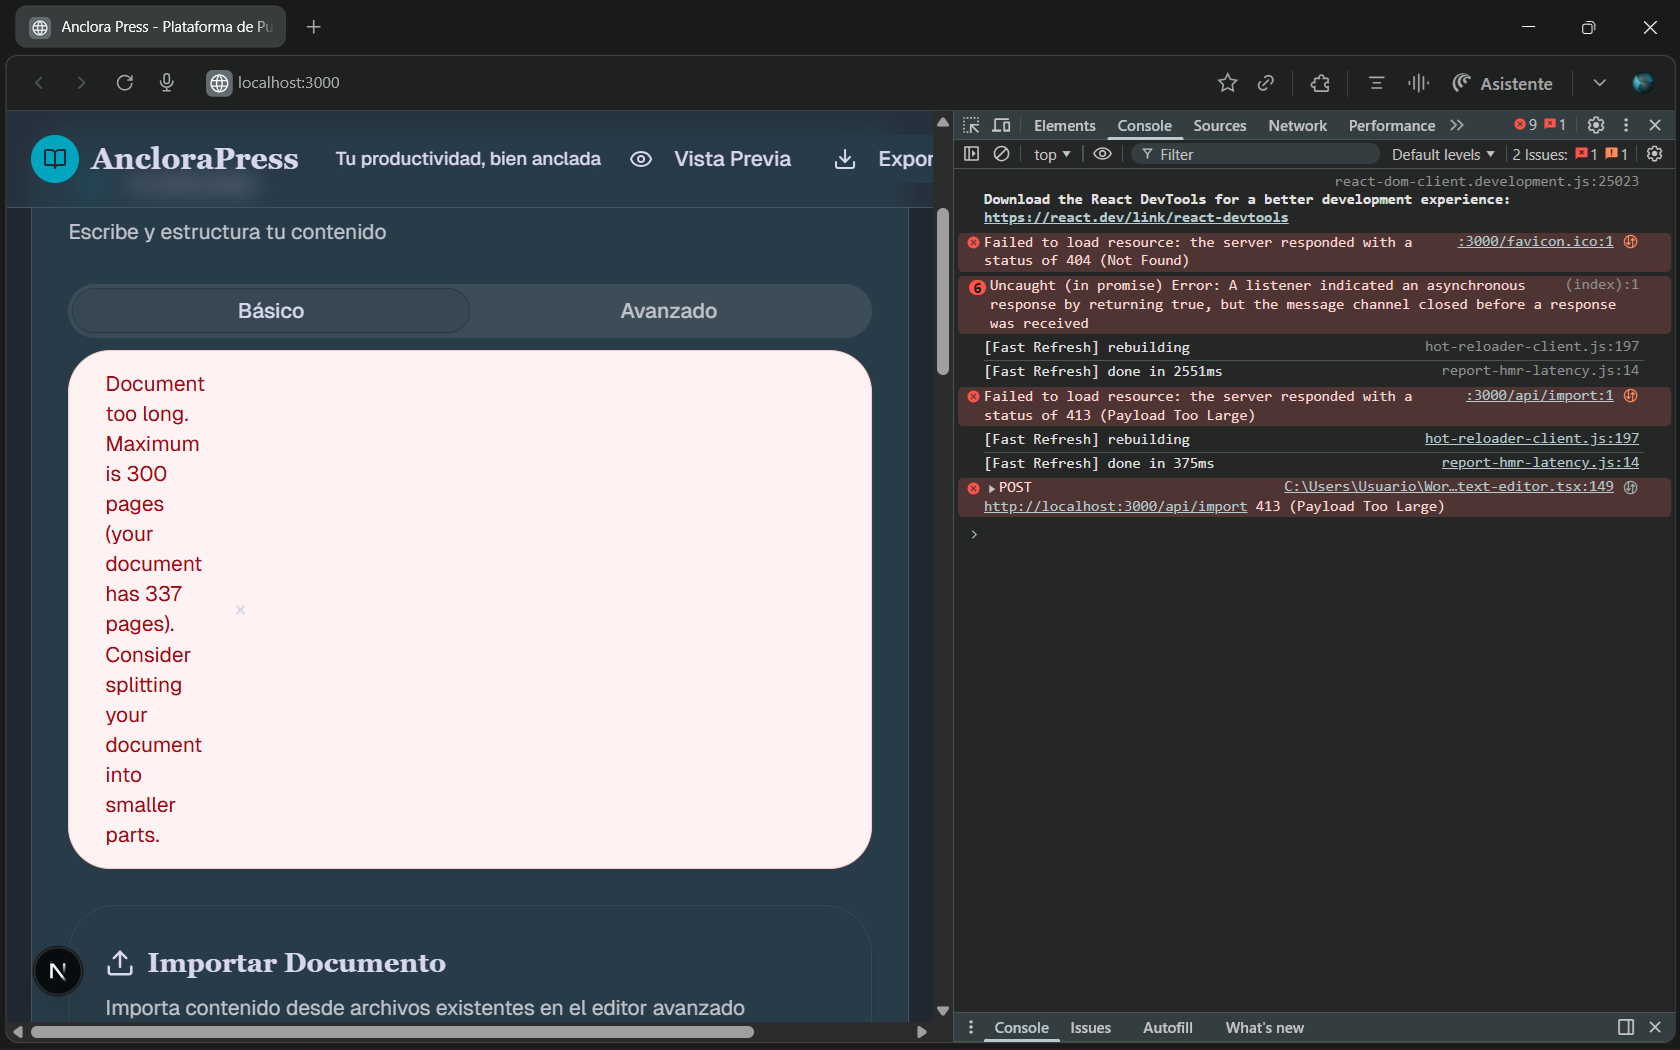
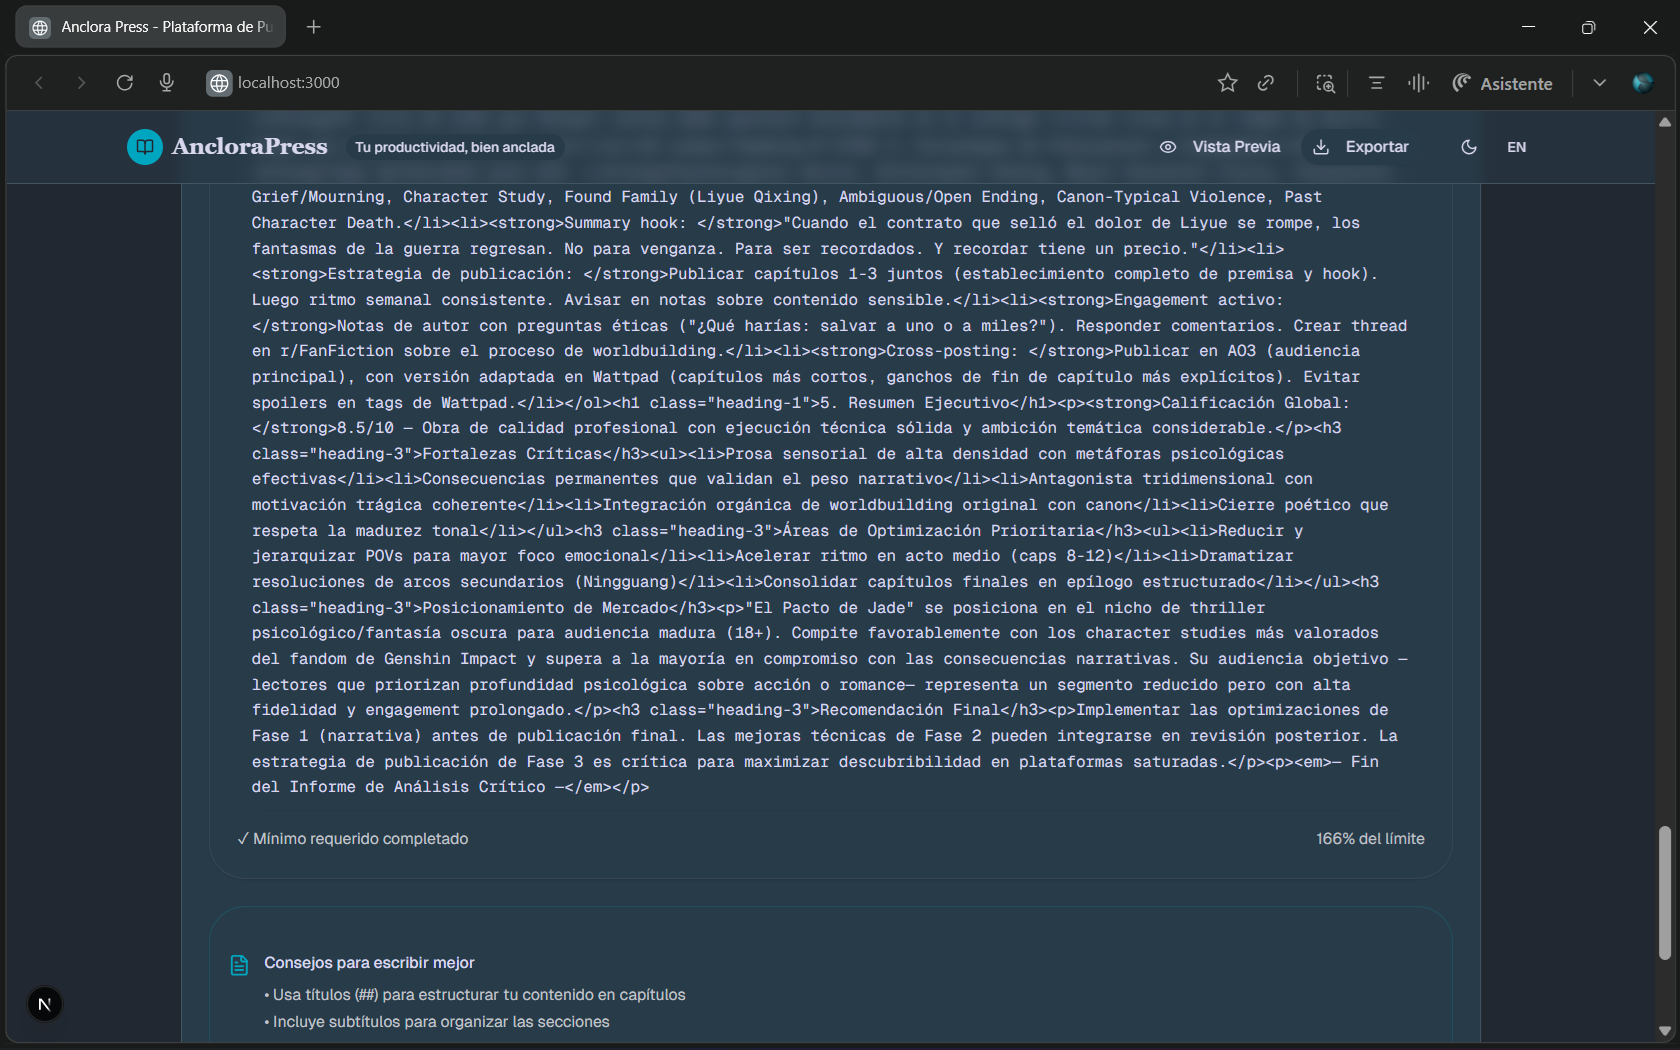
- src/lib/document-importer.ts:17-309 now derives both semantic HTML and Markdown for DOCX     uploads, surfaces the Markdown via the ImportedDocument payload, and adds the shared     converter so plain editors can render imported headings instead of raw tags.   - src/app/api/import/route.ts:197-315

diff --git a/src/lib/document-importer.ts b/src/lib/document-importer.ts
@@ -14,6 +14,7 @@ type DocxStatistics = {
 export interface ImportedDocument {
   title: string
   content: string // HTML content
+  markdown?: string // Markdown equivalent for plain editors
   metadata: {
     wordCount: number
     estimatedPages: number
@@ -45,6 +46,29 @@ export async function convertDocxToHtml(
   } catch (error) {
     throw new Error(
       `DOCX conversion failed: ${error instanceof Error ? error.message : "Unknown error"}`
+    )
+  }
+}
+
+/**
+ * Convert DOCX buffer to Markdown for plain text editors
+ */
+export async function convertDocxToMarkdown(
+  buffer: Buffer
+): Promise<{
+  markdown: string
+  warnings: string[]
+}> {
+  try {
+    const result = await mammoth.convertToMarkdown({ buffer })
+
+    return {
+      markdown: result.value,
+      warnings: result.messages.map((msg) => msg.message),
+    }
+  } catch (error) {
+    throw new Error(
+      `DOCX markdown conversion failed: ${error instanceof Error ? error.message : "Unknown error"}`
     )
   }
 }
@@ -240,8 +264,12 @@ export async function importDocument(
         : Promise.resolve({})
 
     // Step 1: Convert DOCX to HTML
-    const { html: rawHtml, warnings: conversionWarnings } =
-      await convertDocxToHtml(buffer)
+    const [htmlResult, markdownResult] = await Promise.all([
+      convertDocxToHtml(buffer),
+      convertDocxToMarkdown(buffer),
+    ])
+
+    const { html: rawHtml, warnings: conversionWarnings } = htmlResult
 
     // Step 2: Clean HTML
     const cleanedHtml = cleanHtml(rawHtml)
@@ -271,6 +299,7 @@ export async function importDocument(
     // Combine all warnings
     const allWarnings = [
       ...conversionWarnings,
+      ...(markdownResult?.warnings || []),
       ...validation.warnings,
     ]
 
@@ -278,6 +307,7 @@ export async function importDocument(
     return {
       title: metadata.title,
       content: styledHtml,
+      markdown: markdownResult?.markdown,
       metadata: {
         wordCount: metadata.wordCount,
         estimatedPages: metadata.estimatedPages,

diff --git a/src/components/enhanced-text-editor.tsx b/src/components/enhanced-text-editor.tsx
@@ -73,7 +73,7 @@ export default function EnhancedTextEditor({
   author,
   onMetadataChange,
 }: EnhancedTextEditorProps) {
-  const { t } = useLanguage()
+  const { t, language } = useLanguage()
   const [mounted, setMounted] = useState(false)
 
   useEffect(() => {
@@ -96,6 +96,14 @@ export default function EnhancedTextEditor({
     message: string
   }>({ type: null, message: '' })
   const fileInputRef = useRef<HTMLInputElement>(null)
+  const WORDS_PER_PAGE = 200
+  const MAX_PAGES = 300
+  const estimatedPages = Math.max(1, Math.ceil(wordCount / WORDS_PER_PAGE))
+  const pageUsagePercent = Math.min(
+    100,
+    Math.round((estimatedPages / MAX_PAGES) * 100)
+  )
+  const exceedsPageLimit = estimatedPages > MAX_PAGES
 
   const handleContentChange = (newContent: string) => {
     onChange(newContent)
@@ -738,7 +746,15 @@ Escribe al menos 100 palabras para continuar al siguiente paso."
                 }
               </span>
               <span className={currentTheme?.text}>
-                {Math.round((content.length / 10000) * 100)}% del límite
+                {mounted
+                  ? language === 'es'
+                    ? exceedsPageLimit
+                      ? `Estimado: ${estimatedPages} paginas — supera el limite de ${MAX_PAGES}. Maximo 50MB por documento`
+                      : `Estimado: ${estimatedPages} paginas (${pageUsagePercent}% del limite de ${MAX_PAGES}). Maximo 50MB por documento`
+                    : exceedsPageLimit
+                      ? `Estimated: ${estimatedPages} pages — above the ${MAX_PAGES}-page limit. Max 50MB per document`
+                      : `Estimated: ${estimatedPages} pages (${pageUsagePercent}% of the ${MAX_PAGES}-page limit). Max 50MB per document`
+                  : 'Estimado: ' + estimatedPages}
               </span>
             </div>
           </CardContent>

diff --git a/src/components/text-editor.tsx b/src/components/text-editor.tsx
@@ -293,6 +293,15 @@ export default function TextEditor({
     { ext: "epub", name: t('texteditor.ebook'), icon: File },
   ];
 
+  const WORDS_PER_PAGE = 200;
+  const MAX_PAGES = 300;
+  const estimatedPages = Math.max(1, Math.ceil(wordCount / WORDS_PER_PAGE));
+  const pageUsagePercent = Math.min(
+    100,
+    Math.round((estimatedPages / MAX_PAGES) * 100)
+  );
+  const exceedsPageLimit = estimatedPages > MAX_PAGES;
+
   return (
     <div className="space-y-6">
       {/* Import Status Alert */}
@@ -611,7 +620,15 @@ export default function TextEditor({
                       : "✓ Minimum requirement completed")}
               </span>
               <span>
-                {Math.round((content.length / 10000) * 100)}% {mounted && (language === 'es' ? 'del límite' : 'of limit')}
+                {mounted
+                  ? language === 'es'
+                    ? exceedsPageLimit
+                      ? `Estimado: ${estimatedPages} paginas — supera el limite de ${MAX_PAGES}. Maximo 50MB por documento`
+                      : `Estimado: ${estimatedPages} paginas (${pageUsagePercent}% del limite de ${MAX_PAGES}). Maximo 50MB por documento`
+                    : exceedsPageLimit
+                      ? `Estimated: ${estimatedPages} pages — above the ${MAX_PAGES}-page limit. Max 50MB per document`
+                      : `Estimated: ${estimatedPages} pages (${pageUsagePercent}% of the ${MAX_PAGES}-page limit). Max 50MB per document`
+                  : ''}
               </span>
             </div>
           </div>

diff --git a/src/app/api/import/route.ts b/src/app/api/import/route.ts
@@ -197,6 +197,8 @@ export async function POST(request: NextRequest) {
 
     let extractedText = "";
     let metadata = {};
+    let htmlVersion: string | null = null;
+    let contentFormat: "markdown" | "markdown+html" | "html" = "markdown";
 
     try {
       switch (fileExtension) {
@@ -241,7 +243,9 @@ export async function POST(request: NextRequest) {
               );
             }
 
-            extractedText = imported.content;
+            extractedText = imported.markdown ?? imported.content;
+            htmlVersion = imported.content;
+            contentFormat = imported.markdown ? "markdown+html" : "html";
             metadata = {
               type: "docx",
               size: file.size,
@@ -301,6 +305,8 @@ export async function POST(request: NextRequest) {
       return NextResponse.json({
         success: true,
         content: extractedText,
+        contentHtml: htmlVersion,
+        contentFormat,
         metadata,
         originalFileName: fileName,
         importLimits: {

diff --git a/src/components/document-importer.tsx b/src/components/document-importer.tsx
@@ -18,6 +18,7 @@ interface DocumentImporterProps {
     title: string
     content: string
     metadata: Record<string, any>
+    markdown?: string
   }) => void
   onImportError?: (error: string) => void
   className?: string
@@ -120,10 +121,13 @@ export default function DocumentImporter({
         details: data,
       })
 
+      const htmlContent = data.contentHtml || data.content
+
       onImportSuccess?.({
         title: data.metadata?.title || file.name,
-        content: data.content,
+        content: htmlContent,
         metadata: data.metadata,
+        markdown: data.content,
       })
     } catch (error) {
       const errorMessage =

diff --git a/src/components/editor-workspace.tsx b/src/components/editor-workspace.tsx
@@ -55,7 +55,12 @@ export default function EditorWorkspace() {
     : currentBook?.title || "Untitled Book"
 
   const handleImportSuccess = useCallback(
-    (data: { title: string; content: string; metadata: Record<string, any> }) => {
+    (data: {
+      title: string
+      content: string
+      metadata: Record<string, any>
+      markdown?: string
+    }) => {
       setImportOpen(false)
       // Content is automatically loaded via usePersistence
     },

diff --git a/AGENTS.md b/AGENTS.md
@@ -1,11 +1,13 @@
 # Repository Guidelines
 
 ## Project Structure & Module Organization
+
 - `src/app` holds App Router routes with colocated layouts/loading/error states; keep each feature self-contained.
 - Shared UI and logic live in `src/components`, `src/contexts`, `src/hooks`, and `src/lib`, with filenames mirroring exports (PascalCase component, camelCase helper).
 - Assets belong in `public/`, specs in `docs/`, Prisma schema/migrations in `prisma/`, and helper utilities in `scripts/`, while `mini-services/` is reserved for experiments.
 
 ## Build, Test & Development Commands
+
 - `npm install` – install dependencies (needed now that `jszip` powers DOCX metadata parsing).
 - `npm run dev` – start the local server on port 3000 (use `npm run dev:clean` if Windows leaves ports busy).
 - `npm run build` – production compile; fails on type or lint errors.
@@ -14,21 +16,26 @@
 - `npm run db:push`, `npm run db:migrate`, `npm run db:reset` – update the Prisma-managed SQLite database referenced in `DATABASE_URL`.
 
 ## Coding Style & Naming Conventions
+
 - Favor TypeScript React Server Components; only opt into `"use client"` when interactivity is required.
 - Follow ESLint (`eslint.config.mjs`); rely on the formatter for spacing and stick to two-space indentation.
 - Name components/files in PascalCase (`BookManager.tsx`), hooks as `useX`, and helpers in camelCase (`lib/formatDate.ts`).
 - Centralize Tailwind variants via `class-variance-authority` helpers and pull user-facing strings from shared translation utilities to stay i18n-ready.
 
 ## Testing Guidelines
+
 Automated tests are light, so `npm run lint` plus manual QA is mandatory. When adding coverage, colocate `Component.test.tsx` files with the source and reuse the Testing Library pattern built into Next.js. Smoke-test document import/export (Pandoc, mammoth), editor interactions, and authentication whenever you touch those areas.
 
 ## Commit & Pull Request Guidelines
-Commits follow short, imperative titles in Spanish or English (`mejora importación archivos .docx`, `Fix: Increase server action body size limit`) and stay scoped to one concern. PRs must include a summary, testing evidence (`npm run lint`, manual flows), screenshots or GIFs for UI work, and confirmation that roadmap/checklist docs (START_HERE*, MVP_*) are updated or unaffected. Do not merge until reviewers validate Prisma changes and environment updates.
+
+Commits follow short, imperative titles in Spanish or English (`mejora importación archivos .docx`, `Fix: Increase server action body size limit`) and stay scoped to one concern. PRs must include a summary, testing evidence (`npm run lint`, manual flows), screenshots or GIFs for UI work, and confirmation that roadmap/checklist docs (START*HERE\*, MVP*\*) are updated or unaffected. Do not merge until reviewers validate Prisma changes and environment updates.
 
 ## Security & Configuration Tips
+
 Store secrets in `.env.local`; set `DATABASE_URL`, `NEXTAUTH_SECRET`, and Pandoc paths before using Prisma or document exports. Keep uploads inside ignored folders under `public/` and rotate `/logs` before sharing because they may include reader data. Honor the file-size limits enforced by `next.config.ts` and `middleware.ts`, and never commit `.next/` outputs or SQLite artifacts.
 
 ## Document Import Notes
+
 - The `/api/import` route now reads DOCX metadata via `jszip` (run `npm install`) so page counts rely on `docProps/app.xml` instead of rough estimates.
 - Imports hard-stop at 300 pages or 50MB; if a document is rejected incorrectly, inspect the metadata extraction before loosening the cap.
 - Drag-and-drop on the editor import card was recently fixed—keep pointer events bound to the dashed zone so file drops continue to work.
